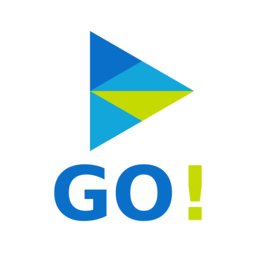
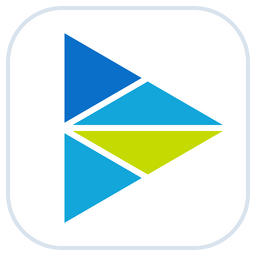
pgocode: reparar la conversación de OpenCode tras un turno cortado; icono nuevo
- Al cortar un turno, OpenCode deja una respuesta vacía y Gemini rechaza después todo el historial («must
  include at least one parts field»). pgocode repara la conversación (quita esa respuesta y la pregunta sin
  contestar con «opencode db») al cortar, y si llega ese error, repara y repite; si no se puede, empieza
  otra y lo avisa. Probado de verdad: tras cortar un turno, la conversación se retoma.
- Icono: sin «GO!» y con el play de tangram grande (logo, favicon y los PNG de la app, generados con Chrome).

diff --git a/planesgo-code/internal/llm/agentes.go b/planesgo-code/internal/llm/agentes.go
@@ -80,7 +80,42 @@ func (a *Agente) Chat(ctx context.Context, p Peticion, emite func(Evento)) error
 		emite(Evento{Texto: "_(La conversación anterior de OpenCode era de otra carpeta; empiezo una nueva en la de esta sesión.)_\n\n"})
 		p.SesionAgente = ""
 	}
-	err := a.chat(ctx, p, emite)
+	// OpenCode: se apunta su sesión (también la nueva) para repararla si el turno se corta.
+	sesionOC := p.SesionAgente
+	emiteOC := emite
+	if a.Clave == "opencode" {
+		emiteOC = func(e Evento) {
+			if e.SesionAgente != "" {
+				sesionOC = e.SesionAgente
+			}
+			emite(e)
+		}
+	}
+	err := a.chat(ctx, p, emiteOC)
+	if a.Clave == "opencode" && sesionOC != "" {
+		switch {
+		case ctx.Err() != nil:
+			// Turno cortado: OpenCode deja una respuesta a medias (vacía) que Gemini rechaza en el siguiente.
+			go func() {
+				c, cancela := context.WithTimeout(context.Background(), 30*time.Second)
+				defer cancela()
+				if e := reparaOpenCode(c, a, p, sesionOC); e != nil {
+					depuracion.Log(a.Clave, "reparar la sesión %s tras cortar el turno: %v", sesionOC, e)
+				}
+			}()
+		case err != nil && historialRoto(err):
+			depuracion.Log(a.Clave, "la sesión %s tiene una respuesta vacía: se repara y se repite", sesionOC)
+			if reparaOpenCode(ctx, a, p, sesionOC) == nil {
+				p.SesionAgente = sesionOC
+				if err = a.chat(ctx, p, emiteOC); err == nil || !historialRoto(err) {
+					return err
+				}
+			}
+			emite(Evento{Texto: "_(La conversación anterior de OpenCode estaba dañada; empiezo una nueva.)_\n\n"})
+			p.SesionAgente = ""
+			return a.chat(ctx, p, emite)
+		}
+	}
 	// La sesión propia del agente ya no existe (p. ej. OpenCode con otra carpeta de datos): se empieza otra.
 	if err != nil && p.SesionAgente != "" && ctx.Err() == nil && sesionPerdida(err) {
 		depuracion.Log(a.Clave, "la sesión %s ya no existe: se empieza otra", p.SesionAgente)
@@ -510,4 +545,41 @@ func sesionOpenCodeEn(ctx context.Context, a *Agente, p Peticion) bool {
 		}
 	}
 	return false
+}
+
+// historialRoto: el error del modelo cuando el historial lleva un mensaje vacío (una respuesta cortada).
+func historialRoto(err error) bool {
+	s := strings.ToLower(err.Error())
+	return strings.Contains(s, "at least one parts field") || strings.Contains(s, "contents.parts must not be empty") ||
+		strings.Contains(s, "must alternate between")
+}
+
+var idSesionOC = regexp.MustCompile(`^ses_[A-Za-z0-9]+$`)
+
+// reparaOpenCode: quita de la sesión las respuestas sin contenido (un turno cortado) y la pregunta que quedó sin
+// contestar, para que el historial vuelva a ser válido; la conversación conserva todo lo demás.
+func reparaOpenCode(ctx context.Context, a *Agente, p Peticion, sesion string) error {
+	if !idSesionOC.MatchString(sesion) {
+		return errors.New("sesión no válida")
+	}
+	rotas := `SELECT m.id FROM message m WHERE m.session_id='` + sesion + `' AND json_extract(m.data,'$.role')='assistant' AND NOT EXISTS (` +
+		`SELECT 1 FROM part x WHERE x.message_id=m.id AND ((json_extract(x.data,'$.type') IN ('text','reasoning') AND ` +
+		`length(coalesce(json_extract(x.data,'$.text'),''))>0) OR json_extract(x.data,'$.type')='tool'))`
+	previas := `SELECT (SELECT u.id FROM message u WHERE u.session_id='` + sesion + `' AND json_extract(u.data,'$.role')='user' AND ` +
+		`u.time_created<=r.time_created ORDER BY u.time_created DESC LIMIT 1) FROM message r WHERE r.id IN (` + rotas + `)`
+	for _, q := range []string{
+		"DELETE FROM part WHERE message_id IN (" + previas + ") OR message_id IN (" + rotas + ")",
+		"DELETE FROM message WHERE id IN (" + previas + ") OR id IN (" + rotas + ")",
+	} {
+		cmd := exec.CommandContext(ctx, "opencode", "db", q)
+		cmd.Dir = p.Carpeta
+		cmd.Env = append(append(os.Environ(), a.EntornoDefecto...), "PWD="+p.Carpeta)
+		if a.EntornoPara != nil {
+			cmd.Env = append(cmd.Env, a.EntornoPara(p)...)
+		}
+		if out, err := cmd.CombinedOutput(); err != nil {
+			return fmt.Errorf("%v: %s", err, strings.TrimSpace(string(out)))
+		}
+	}
+	return nil
 }
